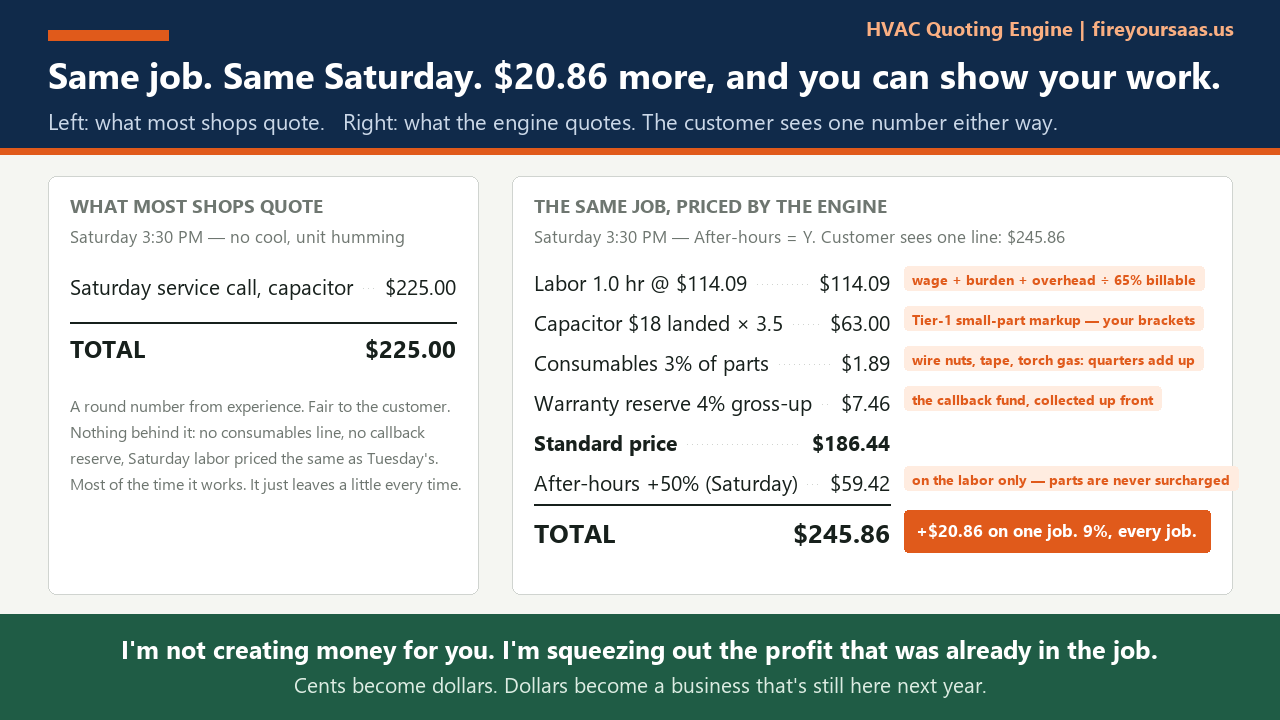
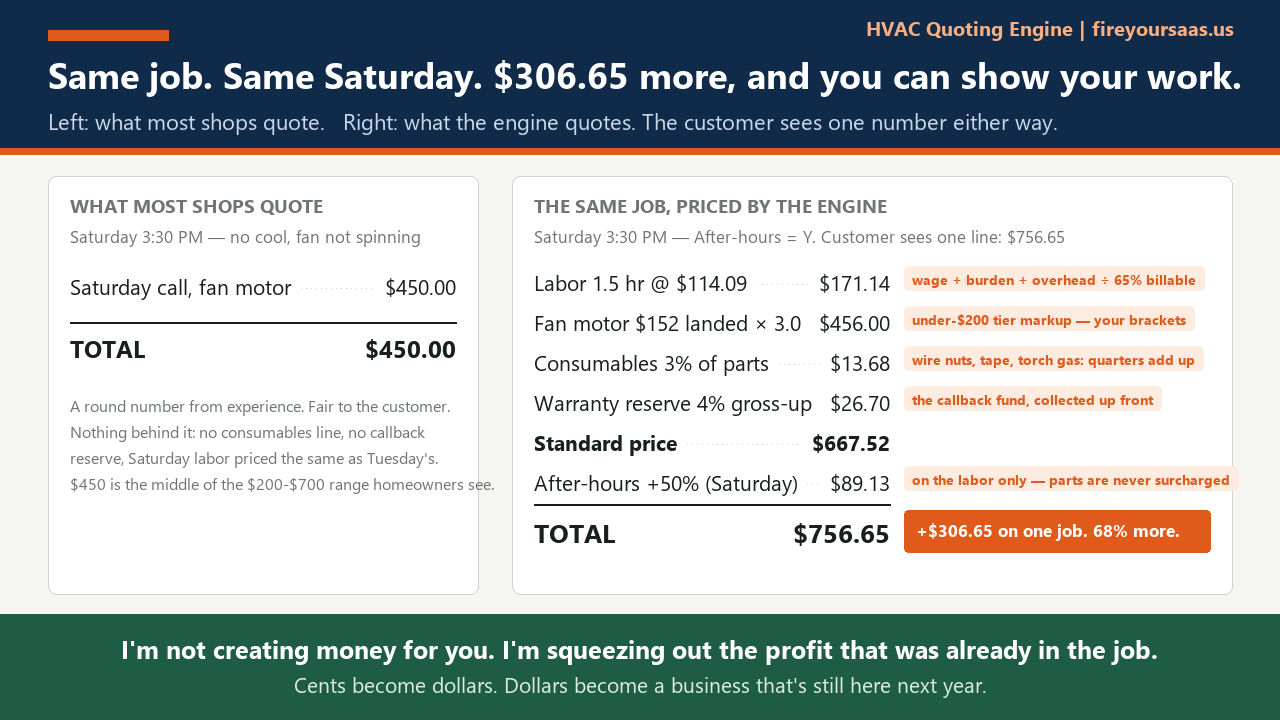
HVAC proof: Saturday condenser fan motor ($450 market middle vs $756.65 engine, +$306.65 / 68%)

diff --git a/index.html b/index.html
@@ -304,26 +304,26 @@
       <div class="proof-cols">
         <div class="inv">
           <div class="proof-lbl">What most shops quote</div>
-          <div class="inv-sub">Saturday 3:30 PM &middot; capacitor swap</div>
-          <div class="inv-row"><span>Saturday service call, capacitor</span><b>$225.00</b></div>
+          <div class="inv-sub">Saturday 3:30 PM &middot; condenser fan motor</div>
+          <div class="inv-row"><span>Saturday call, fan motor replaced</span><b>$450.00</b></div>
           <div class="inv-row gone"><span>Consumables</span><b>&mdash;</b></div>
           <div class="inv-row gone"><span>Callback reserve</span><b>&mdash;</b></div>
           <div class="inv-row gone"><span>Saturday labor premium</span><b>&mdash;</b></div>
-          <div class="inv-row tot"><span>Total</span><b>$225.00</b></div>
-          <div class="inv-foot">A round number from experience. Fair to the customer. Nothing behind it &mdash; it works most of the time and leaves a little every time.</div>
+          <div class="inv-row tot"><span>Total</span><b>$450.00</b></div>
+          <div class="inv-foot">A round number from experience &mdash; the middle of the $200&ndash;$700 range homeowners are told to expect. Nothing behind it: no consumables line, no callback reserve, Saturday labor priced like Tuesday&rsquo;s.</div>
         </div>
         <div class="inv eng">
           <div class="proof-lbl">The same job, priced by the engine</div>
-          <div class="inv-sub">After-hours = Y. The customer sees one line: $245.86. The breakdown is yours.</div>
-          <div class="inv-row"><span>Labor 1.0 hr @ $114.09 loaded rate</span><b>$114.09</b></div>
-          <div class="inv-row hi"><span>Capacitor $18 landed &times; 3.5 <em>your markup tier</em></span><b>$63.00</b></div>
-          <div class="inv-row hi"><span>Consumables 3% <em>wire nuts, tape, torch gas</em></span><b>$1.89</b></div>
-          <div class="inv-row hi"><span>Warranty reserve 4% <em>the callback fund, up front</em></span><b>$7.46</b></div>
-          <div class="inv-row hi"><span>After-hours +50% <em>on the labor only &mdash; parts are never surcharged</em></span><b>$59.42</b></div>
-          <div class="inv-row tot"><span>Total</span><b>$245.86</b></div>
+          <div class="inv-sub">After-hours = Y. The customer sees one line: $756.65. The breakdown is yours.</div>
+          <div class="inv-row"><span>Labor 1.5 hr @ $114.09 loaded rate</span><b>$171.14</b></div>
+          <div class="inv-row hi"><span>Fan motor $152 landed &times; 3.0 <em>your markup tier</em></span><b>$456.00</b></div>
+          <div class="inv-row hi"><span>Consumables 3% <em>wire nuts, tape, torch gas</em></span><b>$13.68</b></div>
+          <div class="inv-row hi"><span>Warranty reserve 4% <em>the callback fund, up front</em></span><b>$26.70</b></div>
+          <div class="inv-row hi"><span>After-hours +50% <em>on the labor only &mdash; parts are never surcharged</em></span><b>$89.13</b></div>
+          <div class="inv-row tot"><span>Total</span><b>$756.65</b></div>
         </div>
       </div>
-      <div class="proof-note"><b class="callout">+$20.86 on one job. 9%, every job.</b> I'm not creating money for you. I'm squeezing out the profit that was already in the job. Cents become dollars. Dollars become a business that's still here next year. Every number above is a dial you set once, in a blue cell.</div>
+      <div class="proof-note"><b class="callout">+$306.65 on one job. 68% more.</b> I'm not creating money for you. I'm squeezing out the profit that was already in the job. Cents become dollars. Dollars become a business that's still here next year. Every number above is a dial you set once, in a blue cell.</div>
     </div>
 
     
@@ -357,9 +357,9 @@
         <summary><div class="card-target">Heating &amp; Air — 1–2 Truck Shops</div><h3 class="card-title">HVAC Quoting Engine</h3><span class="sump">$75</span></summary>
         <div class="lw">
           <div class="lw-cell loss"><span class="lw-tag">Guessing by gut</span><div class="lw-big">under $114.09/hr</div><small>your true cost to roll a truck &mdash; bill less and you're paying to work</small></div>
-          <div class="lw-cell win"><span class="lw-tag">Engine says</span><div class="lw-big">$186.44 flat</div><small>capacitor swap, consumables + callback fund built in &mdash; 9pm Sunday on a roof: $263.69, automatic</small></div>
+          <div class="lw-cell win"><span class="lw-tag">Engine says</span><div class="lw-big">$667.52 flat</div><small>condenser fan motor, consumables + callback fund built in &mdash; Saturday 3:30pm: $756.65, automatic</small></div>
         </div>
-        <button class="gal-one" onclick="lbOpen('hvac',0)"><img loading="lazy" src="covers/hvac/01.jpg?v=8" alt="HVAC engine walkthrough — the whole system in five lines"><span class="gal-one-cta">&#9654; See it in action &mdash; 10-slide walkthrough</span></button>
+        <button class="gal-one" onclick="lbOpen('hvac',0)"><img loading="lazy" src="covers/hvac/01.jpg?v=9" alt="HVAC engine walkthrough — the whole system in five lines"><span class="gal-one-cta">&#9654; See it in action &mdash; 10-slide walkthrough</span></button>
         <div class="card-footer">
           <div class="price-tag">$75 <small>one-time</small></div>
           <a class="btn-download" href="https://fireyoursaas.gumroad.com/l/hvac">Get the HVAC Engine &mdash; $75 &rarr;</a>
@@ -551,9 +551,9 @@
   <div class="lb-bar"><button onclick="lbNav(-1)">‹ Prev</button><button id="lbZoomB" onclick="lbZoom(0.5,0.6)">&#128269; Magnify</button><button onclick="lbNav(1)">Next ›</button></div>
 </div>
 <script>
-var GALS={crafters:[{f:"01.jpg",c:"5 steps, 30 minutes, then it prices everything"},{f:"02.jpg",c:"One screen tells you if you're getting paid"},{f:"03.jpg",c:"Your hour, costed honestly"},{f:"04.jpg",c:"Buy by the box, cost by the ounce"},{f:"05.jpg",c:"Build each product from dropdowns"},{f:"06.jpg",c:"Is that booth fee worth it? Know before you pay"},{f:"07.jpg",c:"What you really cleared, per sale, per hour"}],hvac:[{f:"01.jpg",c:"Run the day, or open the engine room"},{f:"02.jpg",c:"Same job. Same Saturday. $20.86 more, and you can show your work."},{f:"03.jpg",c:"Prime it once. 20 minutes."},{f:"04.jpg",c:"A driveway quote in under a minute"},{f:"05.jpg",c:"One screen tells you if you're making money"},{f:"06.jpg",c:"A customer-ready quote — Good / Better / Best"},{f:"07.jpg",c:"Quoted vs actual, job by job"},{f:"08.jpg",c:"Every dial in one place"},{f:"09.jpg",c:"Buy it once, mark it up right forever"},{f:"10.jpg",c:"Your whole price book — standard, 9pm Sunday, rooftop"}]};
+var GALS={crafters:[{f:"01.jpg",c:"5 steps, 30 minutes, then it prices everything"},{f:"02.jpg",c:"One screen tells you if you're getting paid"},{f:"03.jpg",c:"Your hour, costed honestly"},{f:"04.jpg",c:"Buy by the box, cost by the ounce"},{f:"05.jpg",c:"Build each product from dropdowns"},{f:"06.jpg",c:"Is that booth fee worth it? Know before you pay"},{f:"07.jpg",c:"What you really cleared, per sale, per hour"}],hvac:[{f:"01.jpg",c:"Run the day, or open the engine room"},{f:"02.jpg",c:"Same job. Same Saturday. $306.65 more, and you can show your work."},{f:"03.jpg",c:"Prime it once. 20 minutes."},{f:"04.jpg",c:"A driveway quote in under a minute"},{f:"05.jpg",c:"One screen tells you if you're making money"},{f:"06.jpg",c:"A customer-ready quote — Good / Better / Best"},{f:"07.jpg",c:"Quoted vs actual, job by job"},{f:"08.jpg",c:"Every dial in one place"},{f:"09.jpg",c:"Buy it once, mark it up right forever"},{f:"10.jpg",c:"Your whole price book — standard, 9pm Sunday, rooftop"}]};
 var lbG=null,lbI=0;
-function lbShow(){lbZoomOff();var f=GALS[lbG];document.getElementById("lbImg").src="covers/"+lbG+"/full/"+f[lbI].f.replace(".jpg",".png")+"?v=8";document.getElementById("lbCap").textContent=f[lbI].c;document.getElementById("lbN").textContent=(lbI+1)+" / "+f.length;}
+function lbShow(){lbZoomOff();var f=GALS[lbG];document.getElementById("lbImg").src="covers/"+lbG+"/full/"+f[lbI].f.replace(".jpg",".png")+"?v=9";document.getElementById("lbCap").textContent=f[lbI].c;document.getElementById("lbN").textContent=(lbI+1)+" / "+f.length;}
 function lbOpen(g,i){lbG=g;lbI=i;lbShow();document.getElementById("lb").classList.add("open");document.body.style.overflow="hidden";history.pushState({l:1},"");}
 function lbCloseUI(){lbUnzoom();document.getElementById("lb").classList.remove("open");document.body.style.overflow="";}
 function lbClose(){var d=(history.state&&history.state.l)||0;lbCloseUI();if(d===1){lbPopSkip++;history.back();}else if(d===2){lbPopSkip++;history.go(-2);}}
